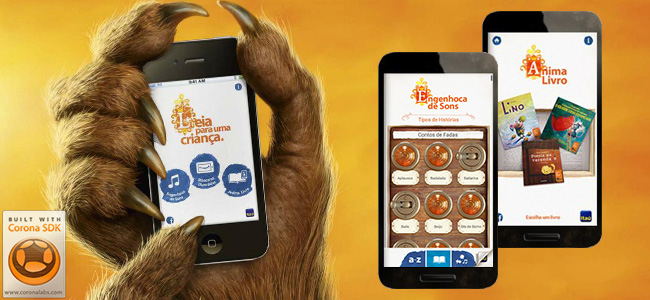
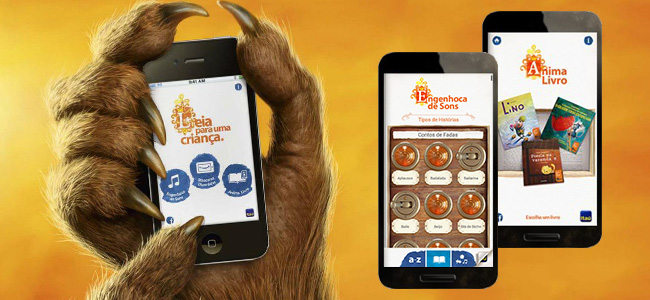
changed itaucrianca poster image

Changed region(s): [[0.0, 0.69, 0.1231, 1.0]]

diff --git a/index.html b/index.html
@@ -34,10 +34,7 @@
         <div class="work">
             <div class="content">
             <article>
-                <img class="poster" src="images/work/leiaparaumacrianca.jpg" usemap="#corona">
-                <map id="corona" name="corona">
-                <area shape="rect" coords="0,208,64,295" href="http://www.coronalabs.com" alt="Built with Corona" title="Built with Corona"    />
-                </map>
+                <img class="poster" src="images/work/leiaparaumacrianca.jpg">
 
                 <img class="thumb" src="images/work/leiaparaumacrianca2.jpg">
                 <div class="text">
